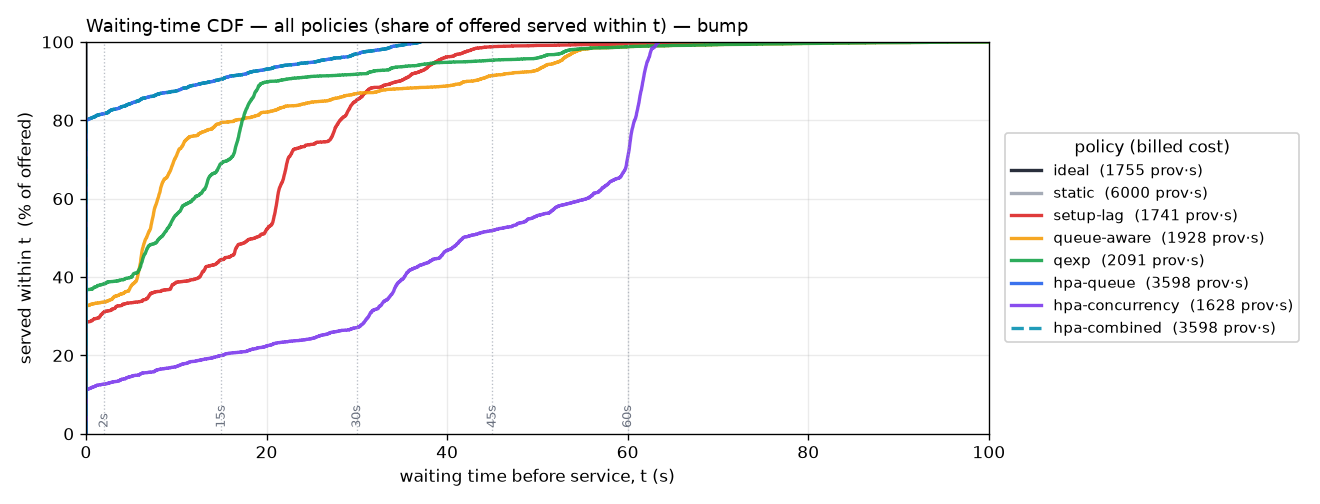
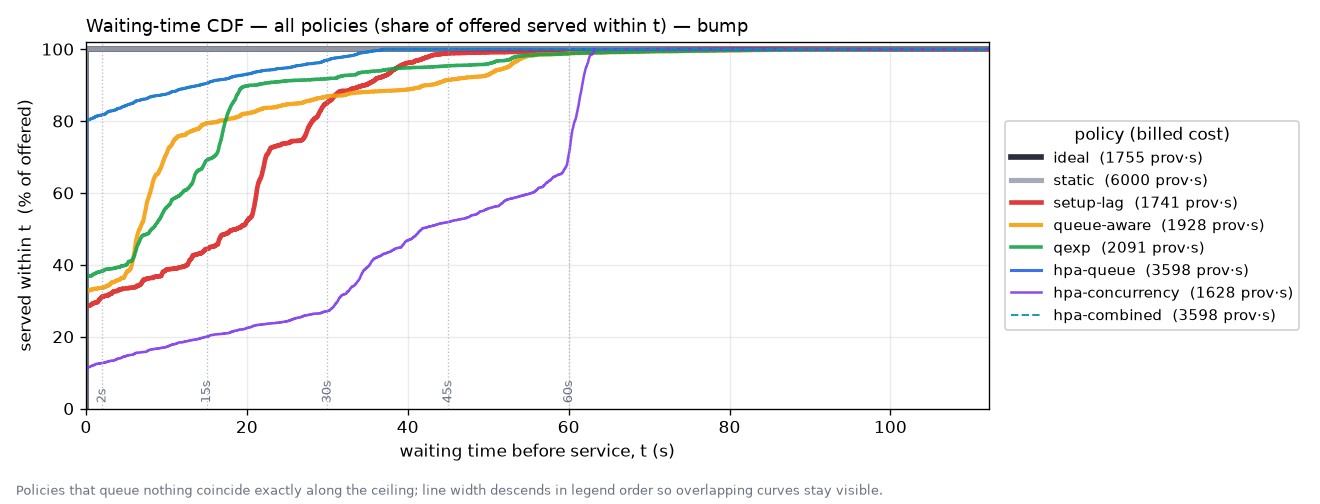
viz: make every waiting-time CDF actually draw, and level the Tradeoffs columns
Three defects made the CDF figures unreadable or wrong; all three are in
plots.py::render_wait_cdf.

1. Wrong denominator. The percentage was taken over cum_arr[-1], but under the
   burn-in prelude the offered series deliberately opens at L(t0) rather than 0
   (Little's-Law geometry needs a common baseline on both series), so cum_arr[-1]
   is offered + L(t0). Every ceiling was depressed by L(t0)/offered -- stepdown
   97.5%, spike 98.4%, trapezoid/stepup 99.4% -- which put the stepdown figure in
   contradiction with its own summary table (table: 100.0% completed). sample()
   exports an explicit `offered` key; that is the only valid denominator.

2. No terminal segment. The step CDF stopped at the largest observed wait, so a
   policy that queued nothing degenerated to a zero-width vertical hairline at
   x=0, hidden under the y-axis spine. On stepdown 7 of 8 policies have max wait
   0.00 s, so 7 of 8 curves were literally undrawable -- this is the reported
   "missing spike and step down CDFs". The PNGs existed; the curves did not.
   Each curve now holds its ceiling out to the right spine.

3. Fixed xmax=100. Stepdown used 16% of its axis while bump's 103.9 s tail was
   clipped off the right edge. The axis now autoscales to the worst observed
   wait, floored at the widest quality band so the 45 s / 60 s guides stay
   visible even on shapes that never approach them.

Two presentation consequences of (2): coincident curves would have the last one
[…]

diff --git a/out/index.html b/out/index.html
@@ -257,11 +257,25 @@ function renderTradeoffSide(side){
   const scope = side === "A" ? "tradeA" : "tradeB";
   const key = state.shape[scope];
   const label = (SHAPES.find(x => x[0] === key) || [key, key])[1];
-  const note = SHAPE_NOTES[key] ? '<p class="sw-note">'+SHAPE_NOTES[key]+'</p>' : '';
+  // The banner carries an id so levelTradeNotes() can equalize the two columns.
+  const note = '<p class="sw-note" id="tnote-'+side+'">'+(SHAPE_NOTES[key] || "")+'</p>';
   document.getElementById("trade-"+side).innerHTML =
     "<h3 class='sw'>"+label+"</h3>" + note +
     "<h4 class='sw4'>Cost vs quality</h4>" + tradeFig("10-cost-quality-"+key+".png", label+" cost vs quality") +
     "<h4 class='sw4'>Waiting-time CDF</h4>" + tradeFig("09-wait-cdf-"+key+".png", label+" waiting-time CDF");
+}
+// Level the two Tradeoffs columns, same trick as levelMetas() on Compare: the shape
+// banners are variable-height prose, so without this the "Cost vs quality" heading —
+// and every figure below it — starts at a different y in each column and the
+// side-by-side comparison no longer lines up. Re-run after either column re-renders,
+// on tab-activate (offsetHeight is 0 while display:none) and on resize (the banner
+// reflows against p.sw-note's max-width).
+function levelTradeNotes(){
+  const a = document.getElementById("tnote-A"), b = document.getElementById("tnote-B");
+  if (!a || !b) return;
+  a.style.height = b.style.height = "auto";
+  const h = Math.max(a.offsetHeight, b.offsetHeight);
+  if (h) a.style.height = b.style.height = h + "px";
 }
 // Cap sweep (Sweeps tab): show only the div for the cap switcher's shape.
 function renderCapShape(){
@@ -289,8 +303,8 @@ const SHAPE_RENDER = {
   compare: renderCompare,
   browse: renderBrowse,
   table: renderTableShape,
-  tradeA: () => renderTradeoffSide("A"),
-  tradeB: () => renderTradeoffSide("B"),
+  tradeA: () => { renderTradeoffSide("A"); levelTradeNotes(); },
+  tradeB: () => { renderTradeoffSide("B"); levelTradeNotes(); },
   cap: renderCapShape,
 };
 function markShapeSel(picker, shape){
@@ -364,6 +378,7 @@ function initTabs(){
       // Height-dependent layout must run once the view is visible (offsetHeight is
       // 0 while display:none), so re-level / re-zoom Compare on activation.
       if (t.dataset.tab === "compare"){ applyZoom(); levelMetas(); }
+      if (t.dataset.tab === "tradeoffs"){ levelTradeNotes(); }
     };
   });
 }
@@ -374,13 +389,14 @@ function jumpTo(id){
 }
 buildPickers(); buildShapePickers(); initTabs(); initSync();
 document.getElementById("zoomer").addEventListener("input", applyZoom);
-window.addEventListener("resize", () => { applyZoom(); levelMetas(); });
+window.addEventListener("resize", () => { applyZoom(); levelMetas(); levelTradeNotes(); });
 // Initial paint: every tab renders its own default shape independently.
 renderCompare();
 renderBrowse();
 renderTableShape();
 renderTradeoffSide("A");
 renderTradeoffSide("B");
+levelTradeNotes();   // no-op while the tab is hidden; re-run on activate + resize
 renderCapShape();
 </script>
 </body>

diff --git a/plots.py b/plots.py
@@ -416,41 +416,75 @@ def _style(name):
 
 
 def render_wait_cdf(runs: dict, costs: dict, title: str, path: str,
-                    edges=(2.0, 15.0, 30.0, 45.0, 60.0), xmax=100.0):
+                    edges=(2.0, 15.0, 30.0, 45.0, 60.0), xmax=None):
     """Overlay every policy's waiting-time CDF on one axis: y = share of OFFERED
     served within t seconds (a policy that strands work asymptotes below 100%,
     since unfinished requests are not in req_wait but still count in the offered
     denominator). Vertical guides mark the quality-band edges; each legend entry
     carries the policy's billed fleet cost so promptness and cost read together.
-    `runs` = {name: ts}; `costs` = {name: provisioned·seconds}."""
+    `runs` = {name: ts}; `costs` = {name: provisioned·seconds}.
+
+    The denominator is the trace's explicit `offered` count, never `cum_arr[-1]`:
+    under a burn-in prelude the offered series deliberately opens at L(t0) rather
+    than 0 (Little's-Law geometry needs a common baseline on both series), so
+    `cum_arr[-1]` is `offered + L(t0)` and would depress every ceiling — enough to
+    put the figure in contradiction with its own summary table.
+
+    `xmax=None` autoscales the axis to the worst observed wait across `runs`. Each
+    curve is also extended by an explicit terminal segment out to the right spine:
+    a step CDF that stops at its largest observed wait degenerates to a
+    zero-width vertical hairline for a policy that queued nothing, which hides
+    under the y-axis spine and reads as a missing curve rather than a perfect one.
+    Coincident curves are drawn widest-first so overlapping policies nest visibly
+    instead of the last one painting over all the rest."""
+    # The axis extent must be known before any curve is drawn, since each one is
+    # extended to the right spine.
+    worst = 0.0
+    for ts in runs.values():
+        if ts.get("req_wait"):
+            worst = max(worst, max(ts["req_wait"]))
+    if xmax is None:
+        xmax = max(worst * 1.08, max(edges) * 1.05)
+
     fig, ax = plt.subplots(figsize=(11, 4.2))
-    for name, ts in runs.items():
+    n = max(1, len(runs) - 1)
+    for i, (name, ts) in enumerate(runs.items()):
         waits = sorted(ts["req_wait"])
-        offered = (ts["cum_arr"][-1] if ts.get("cum_arr") else len(waits)) or len(waits)
+        offered = ts.get("offered") or len(waits)
         if not waits or not offered:
             continue
         xs, ys = [0.0], [0.0]                          # step CDF over OFFERED
-        for i, w in enumerate(waits, 1):
+        for j, w in enumerate(waits, 1):
             xs.append(w)
-            ys.append(100.0 * i / offered)
+            ys.append(100.0 * j / offered)
+        xs.append(xmax)                                # hold the ceiling to the spine
+        ys.append(ys[-1])
         color, dash = _style(name)
         cost = costs.get(name)
         lbl = name + (f"  ({cost:.0f} prov·s)" if cost is not None else "")
         ax.step(xs, ys, where="post", color=color, linestyle=dash,
-                lw=2.0, alpha=0.9, label=lbl)
+                lw=3.4 - 2.2 * (i / n), alpha=0.9, label=lbl)
     for e in edges:
         ax.axvline(e, color="#9ca3af", ls=":", lw=0.8, alpha=0.7)
         ax.text(e, 1.5, f"{e:g}s", fontsize=8, color="#6b7280",
                 ha="center", va="bottom", rotation=90)
     ax.set_xlim(0, xmax)
-    ax.set_ylim(0, 100)
+    # A little headroom above 100: on a shape where most policies queue nothing, the
+    # coincident ceiling curves sit exactly at 100 and would otherwise be painted over
+    # by the top spine and read as absent.
+    ax.set_ylim(0, 102)
+    ax.set_yticks([0, 20, 40, 60, 80, 100])
     ax.set_xlabel("waiting time before service, t (s)")
     ax.set_ylabel("served within t  (% of offered)")
     ax.set_title(title, loc="left", fontsize=11)
     ax.grid(True, alpha=0.25)
     ax.legend(loc="center left", bbox_to_anchor=(1.01, 0.5), fontsize=9,
               framealpha=0.9, title="policy (billed cost)")
-    fig.tight_layout()
+    fig.text(0.012, 0.012,
+             "Policies that queue nothing coincide exactly along the ceiling; line width "
+             "descends in legend order so overlapping curves stay visible.",
+             fontsize=8, color="#6b7280", ha="left", va="bottom")
+    fig.tight_layout(rect=(0, 0.05, 1, 1))
     fig.savefig(path, dpi=120)
     plt.close(fig)
     return path

diff --git a/report.py b/report.py
@@ -1177,11 +1177,25 @@ function renderTradeoffSide(side){
   const scope = side === "A" ? "tradeA" : "tradeB";
   const key = state.shape[scope];
   const label = (SHAPES.find(x => x[0] === key) || [key, key])[1];
-  const note = SHAPE_NOTES[key] ? '<p class="sw-note">'+SHAPE_NOTES[key]+'</p>' : '';
+  // The banner carries an id so levelTradeNotes() can equalize the two columns.
+  const note = '<p class="sw-note" id="tnote-'+side+'">'+(SHAPE_NOTES[key] || "")+'</p>';
   document.getElementById("trade-"+side).innerHTML =
     "<h3 class='sw'>"+label+"</h3>" + note +
     "<h4 class='sw4'>Cost vs quality</h4>" + tradeFig("10-cost-quality-"+key+".png", label+" cost vs quality") +
     "<h4 class='sw4'>Waiting-time CDF</h4>" + tradeFig("09-wait-cdf-"+key+".png", label+" waiting-time CDF");
+}
+// Level the two Tradeoffs columns, same trick as levelMetas() on Compare: the shape
+// banners are variable-height prose, so without this the "Cost vs quality" heading —
+// and every figure below it — starts at a different y in each column and the
+// side-by-side comparison no longer lines up. Re-run after either column re-renders,
+// on tab-activate (offsetHeight is 0 while display:none) and on resize (the banner
+// reflows against p.sw-note's max-width).
+function levelTradeNotes(){
+  const a = document.getElementById("tnote-A"), b = document.getElementById("tnote-B");
+  if (!a || !b) return;
+  a.style.height = b.style.height = "auto";
+  const h = Math.max(a.offsetHeight, b.offsetHeight);
+  if (h) a.style.height = b.style.height = h + "px";
 }
 // Cap sweep (Sweeps tab): show only the div for the cap switcher's shape.
 function renderCapShape(){
@@ -1209,8 +1223,8 @@ const SHAPE_RENDER = {
   compare: renderCompare,
   browse: renderBrowse,
   table: renderTableShape,
-  tradeA: () => renderTradeoffSide("A"),
-  tradeB: () => renderTradeoffSide("B"),
+  tradeA: () => { renderTradeoffSide("A"); levelTradeNotes(); },
+  tradeB: () => { renderTradeoffSide("B"); levelTradeNotes(); },
   cap: renderCapShape,
 };
 function markShapeSel(picker, shape){
@@ -1284,6 +1298,7 @@ function initTabs(){
       // Height-dependent layout must run once the view is visible (offsetHeight is
       // 0 while display:none), so re-level / re-zoom Compare on activation.
       if (t.dataset.tab === "compare"){ applyZoom(); levelMetas(); }
+      if (t.dataset.tab === "tradeoffs"){ levelTradeNotes(); }
     };
   });
 }
@@ -1294,13 +1309,14 @@ function jumpTo(id){
 }
 buildPickers(); buildShapePickers(); initTabs(); initSync();
 document.getElementById("zoomer").addEventListener("input", applyZoom);
-window.addEventListener("resize", () => { applyZoom(); levelMetas(); });
+window.addEventListener("resize", () => { applyZoom(); levelMetas(); levelTradeNotes(); });
 // Initial paint: every tab renders its own default shape independently.
 renderCompare();
 renderBrowse();
 renderTableShape();
 renderTradeoffSide("A");
 renderTradeoffSide("B");
+levelTradeNotes();   // no-op while the tab is hidden; re-run on activate + resize
 renderCapShape();
 </script>
 </body>
